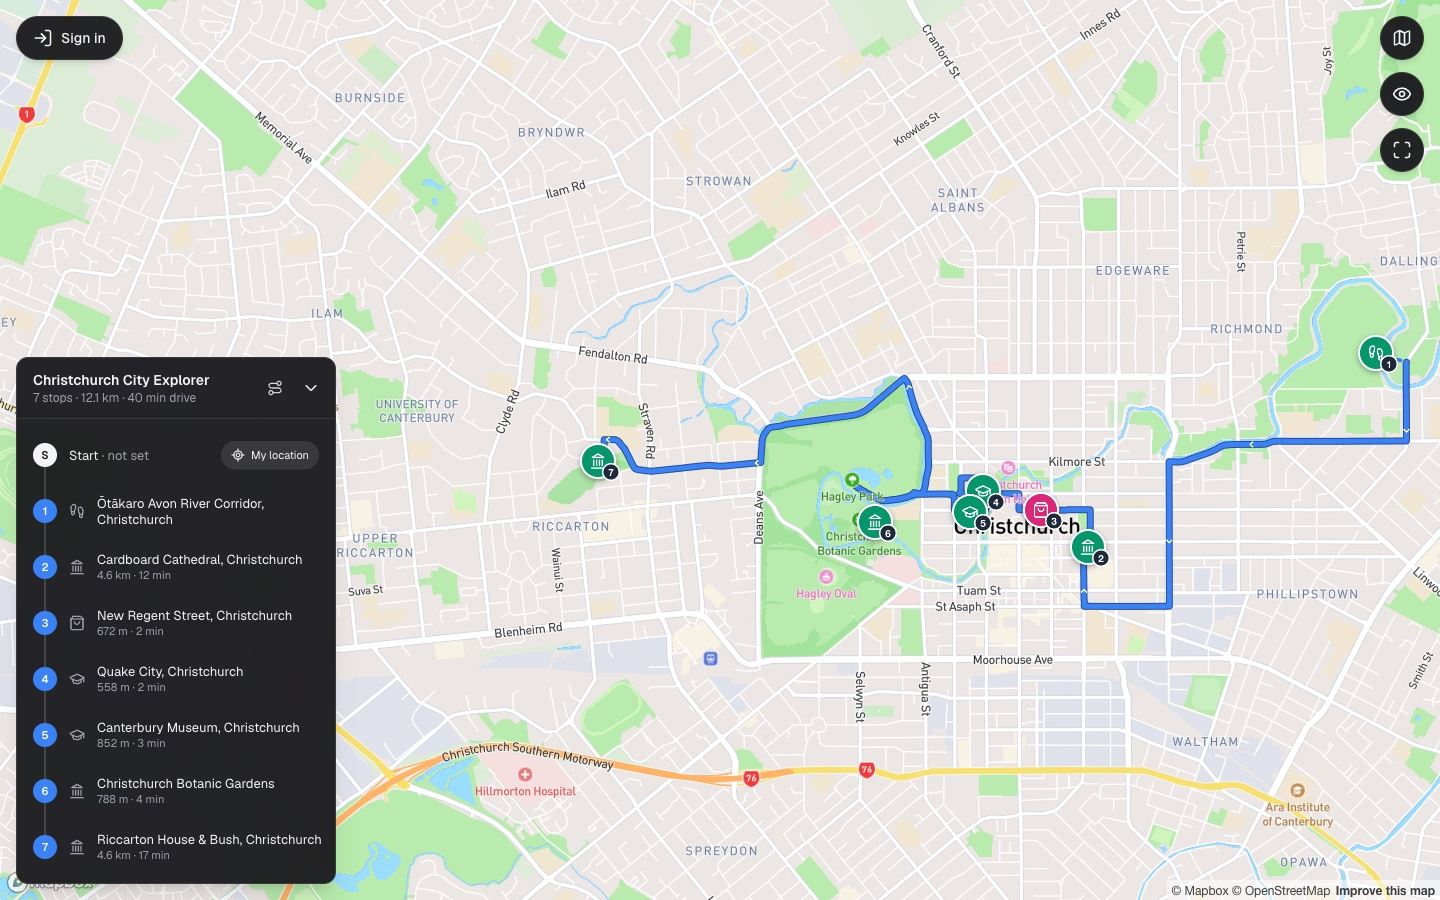
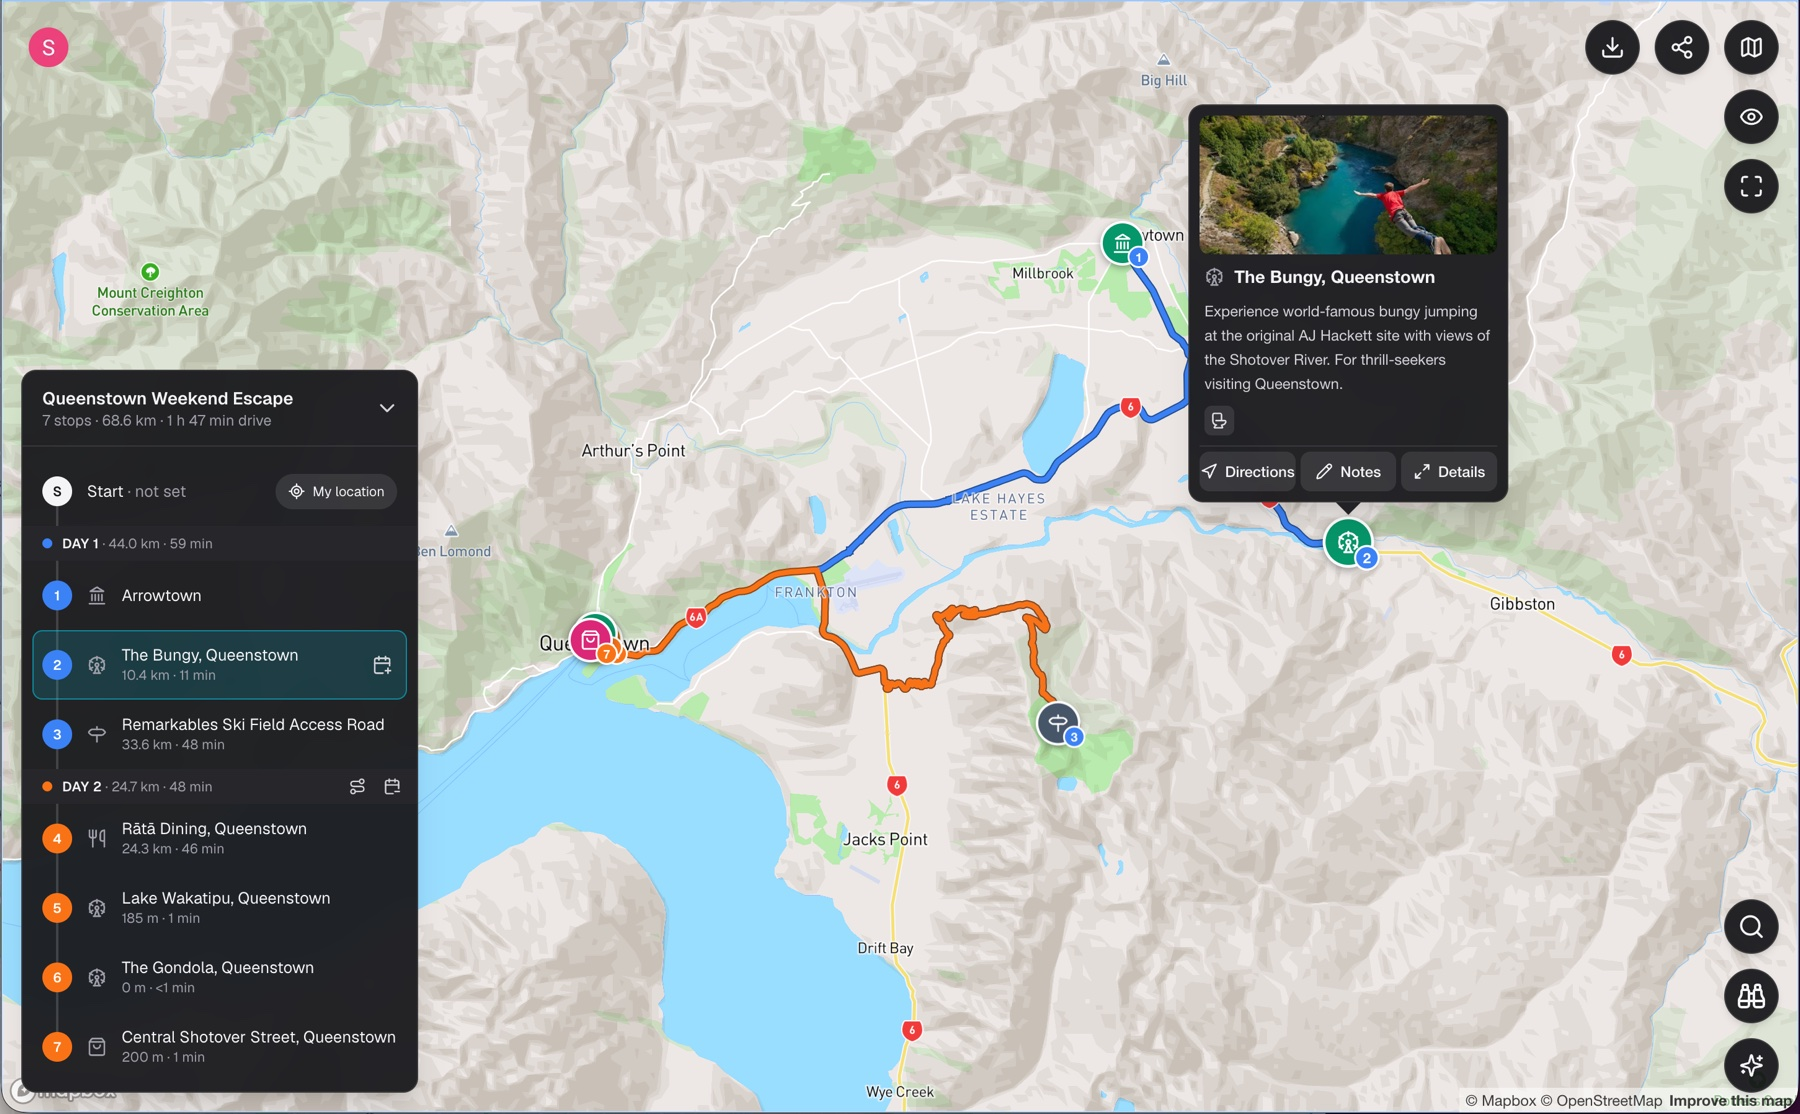
Trip Planner: desktop shot with an open stop card

diff --git a/README.md b/README.md
@@ -224,7 +224,7 @@ Built in one day at the Auckland CivicTech Hackathon (October 2026) for Auckland
 ### Trip Planner Map — [trip-planner-map.vercel.app](https://trip-planner-map.vercel.app)
 
 <p align="center">
-  <a href="https://trip-planner-map.vercel.app"><img src="images/trip-planner.jpg" alt="Trip planner on a desktop with the itinerary pane open and a seven-stop Christchurch route on the map" height="380"></a>
+  <a href="https://trip-planner-map.vercel.app"><img src="images/trip-planner.jpg" alt="Trip planner on a desktop with a two-day Queenstown itinerary and a stop card showing its photo, description, and actions" height="380"></a>
   <a href="https://trip-planner-map.vercel.app"><img src="images/trip-planner-phone.jpg" alt="Trip planner on a phone with the itinerary as a bottom sheet under the map" height="380"></a>
 </p>
 
